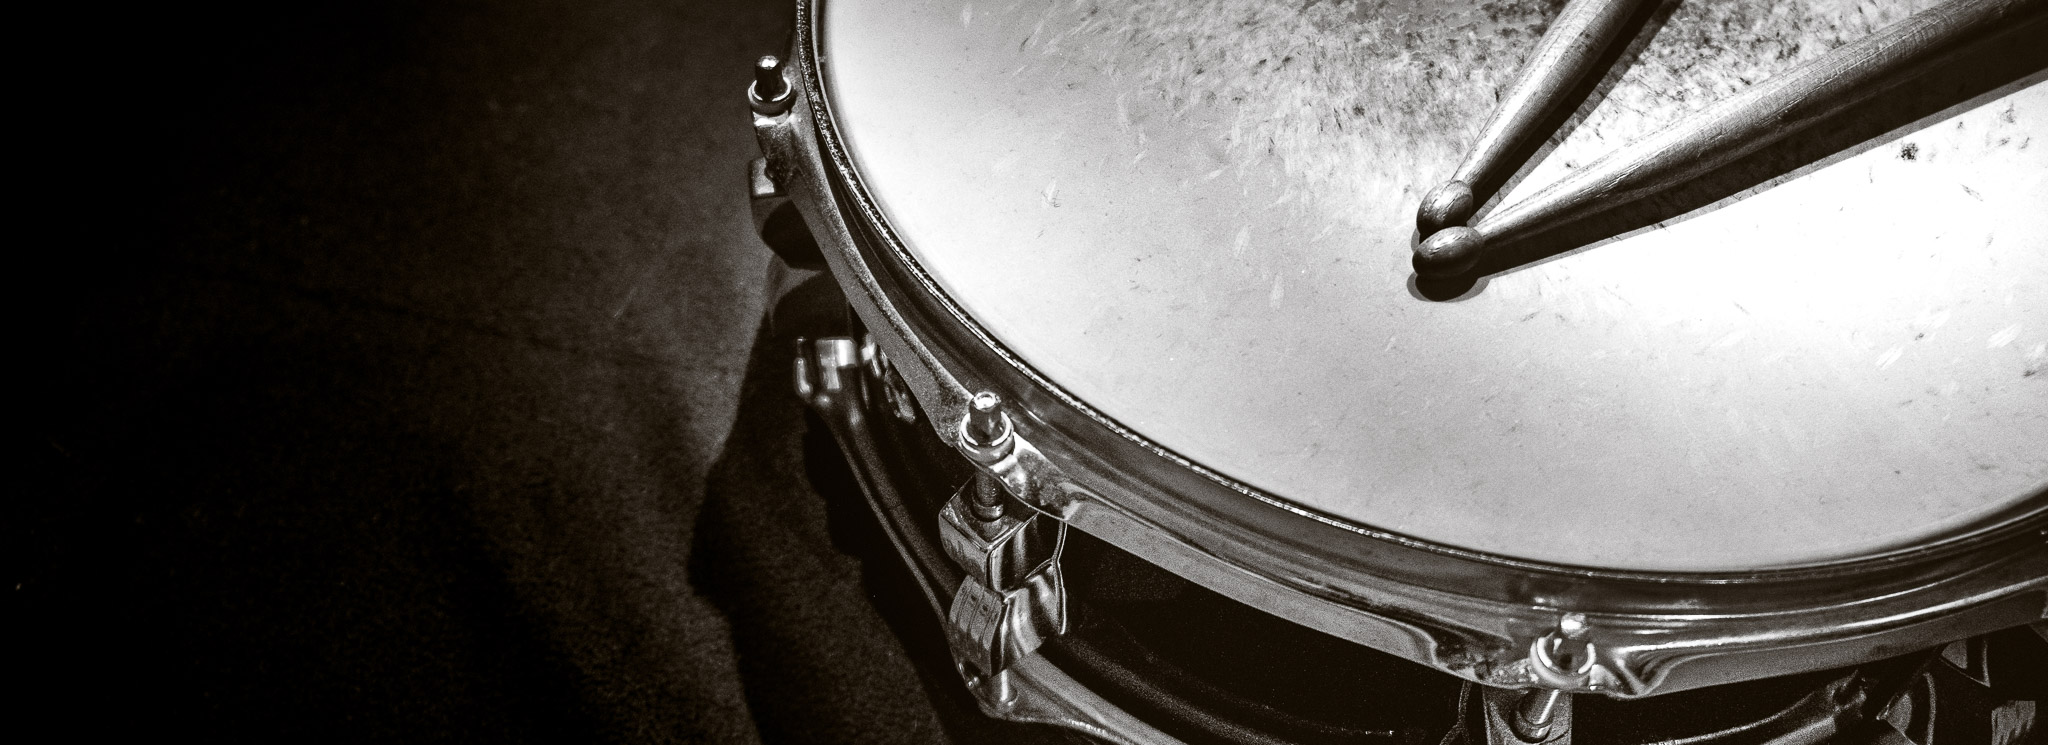
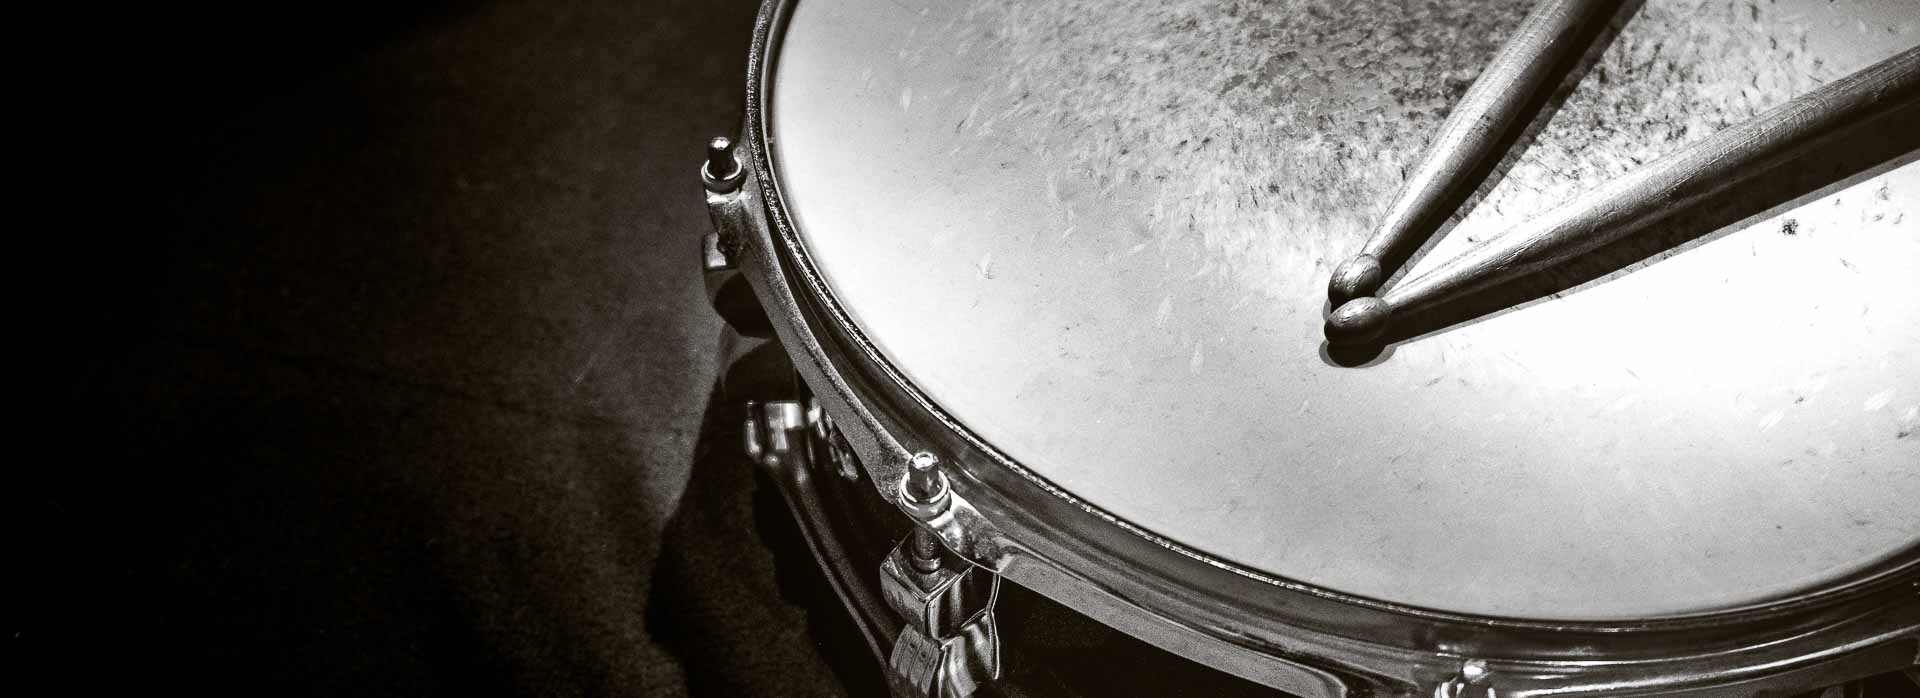
Started using webp on menu items

diff --git a/src/app/title-page/title-page.component.html b/src/app/title-page/title-page.component.html
@@ -4,18 +4,18 @@
 </div>
 <app-menu>
 	<app-menu-item smallItem="true"
-		imgSrc="assets/menu-items/about-me.jpg"
+		imgSrc="assets/menu-items/about-me"
 		title="About Me"
 		route="/about-me"
 	></app-menu-item>
 	<app-menu-item smallItem="true"
-		imgSrc="assets/menu-items/sheet-music-organizer.jpg"
+		imgSrc="assets/menu-items/sheet-music-organizer"
 		title="Work In Progress..."
 		subtitle="Personal Project"
 		route="/todo-replace"
 	></app-menu-item>
 	<app-menu-item smallItem="true"
-		imgSrc="assets/menu-items/photography.jpg"
+		imgSrc="assets/menu-items/photography"
 		title="Photography"
 		route="/photography"
 	></app-menu-item>

diff --git a/src/app/ui-tools/menu-item/menu-item.component.html b/src/app/ui-tools/menu-item/menu-item.component.html
@@ -3,5 +3,9 @@
 		<h3 id="title" class="hoverable-text">{{ title }}</h3>
 		<h4 id="subtitle" class="hoverable-text" *ngIf="!!subtitle">{{ subtitle }}</h4>
 	</div>
-	<img id="menu-image" src="{{ imgSrc }}" alt="Menu Item"/>
+	<picture>
+		<source srcset="{{ imgSrc }}.webp" type="image/webp">
+		<source srcset="{{ imgSrc }}.jpg" type="image/jpeg">
+		<img id="menu-image" src="{{ imgSrc }}.jpg" alt="Menu Item">
+	</picture>
 </div>

diff --git a/src/app/photography-page/photography-menu/photography-menu.component.html b/src/app/photography-page/photography-menu/photography-menu.component.html
@@ -2,7 +2,7 @@
 <app-menu>
 	<app-menu-item
 		*ngFor="let album of service.albums"
-		imgSrc="assets/photography/{{album.id}}/{{album.id}}-menu.jpg"
+		imgSrc="assets/photography/{{album.id}}/{{album.id}}-menu"
 		title={{album.title}}
 		subtitle={{album.subtitle}}
 		[route]="['/photography', album.id]"
